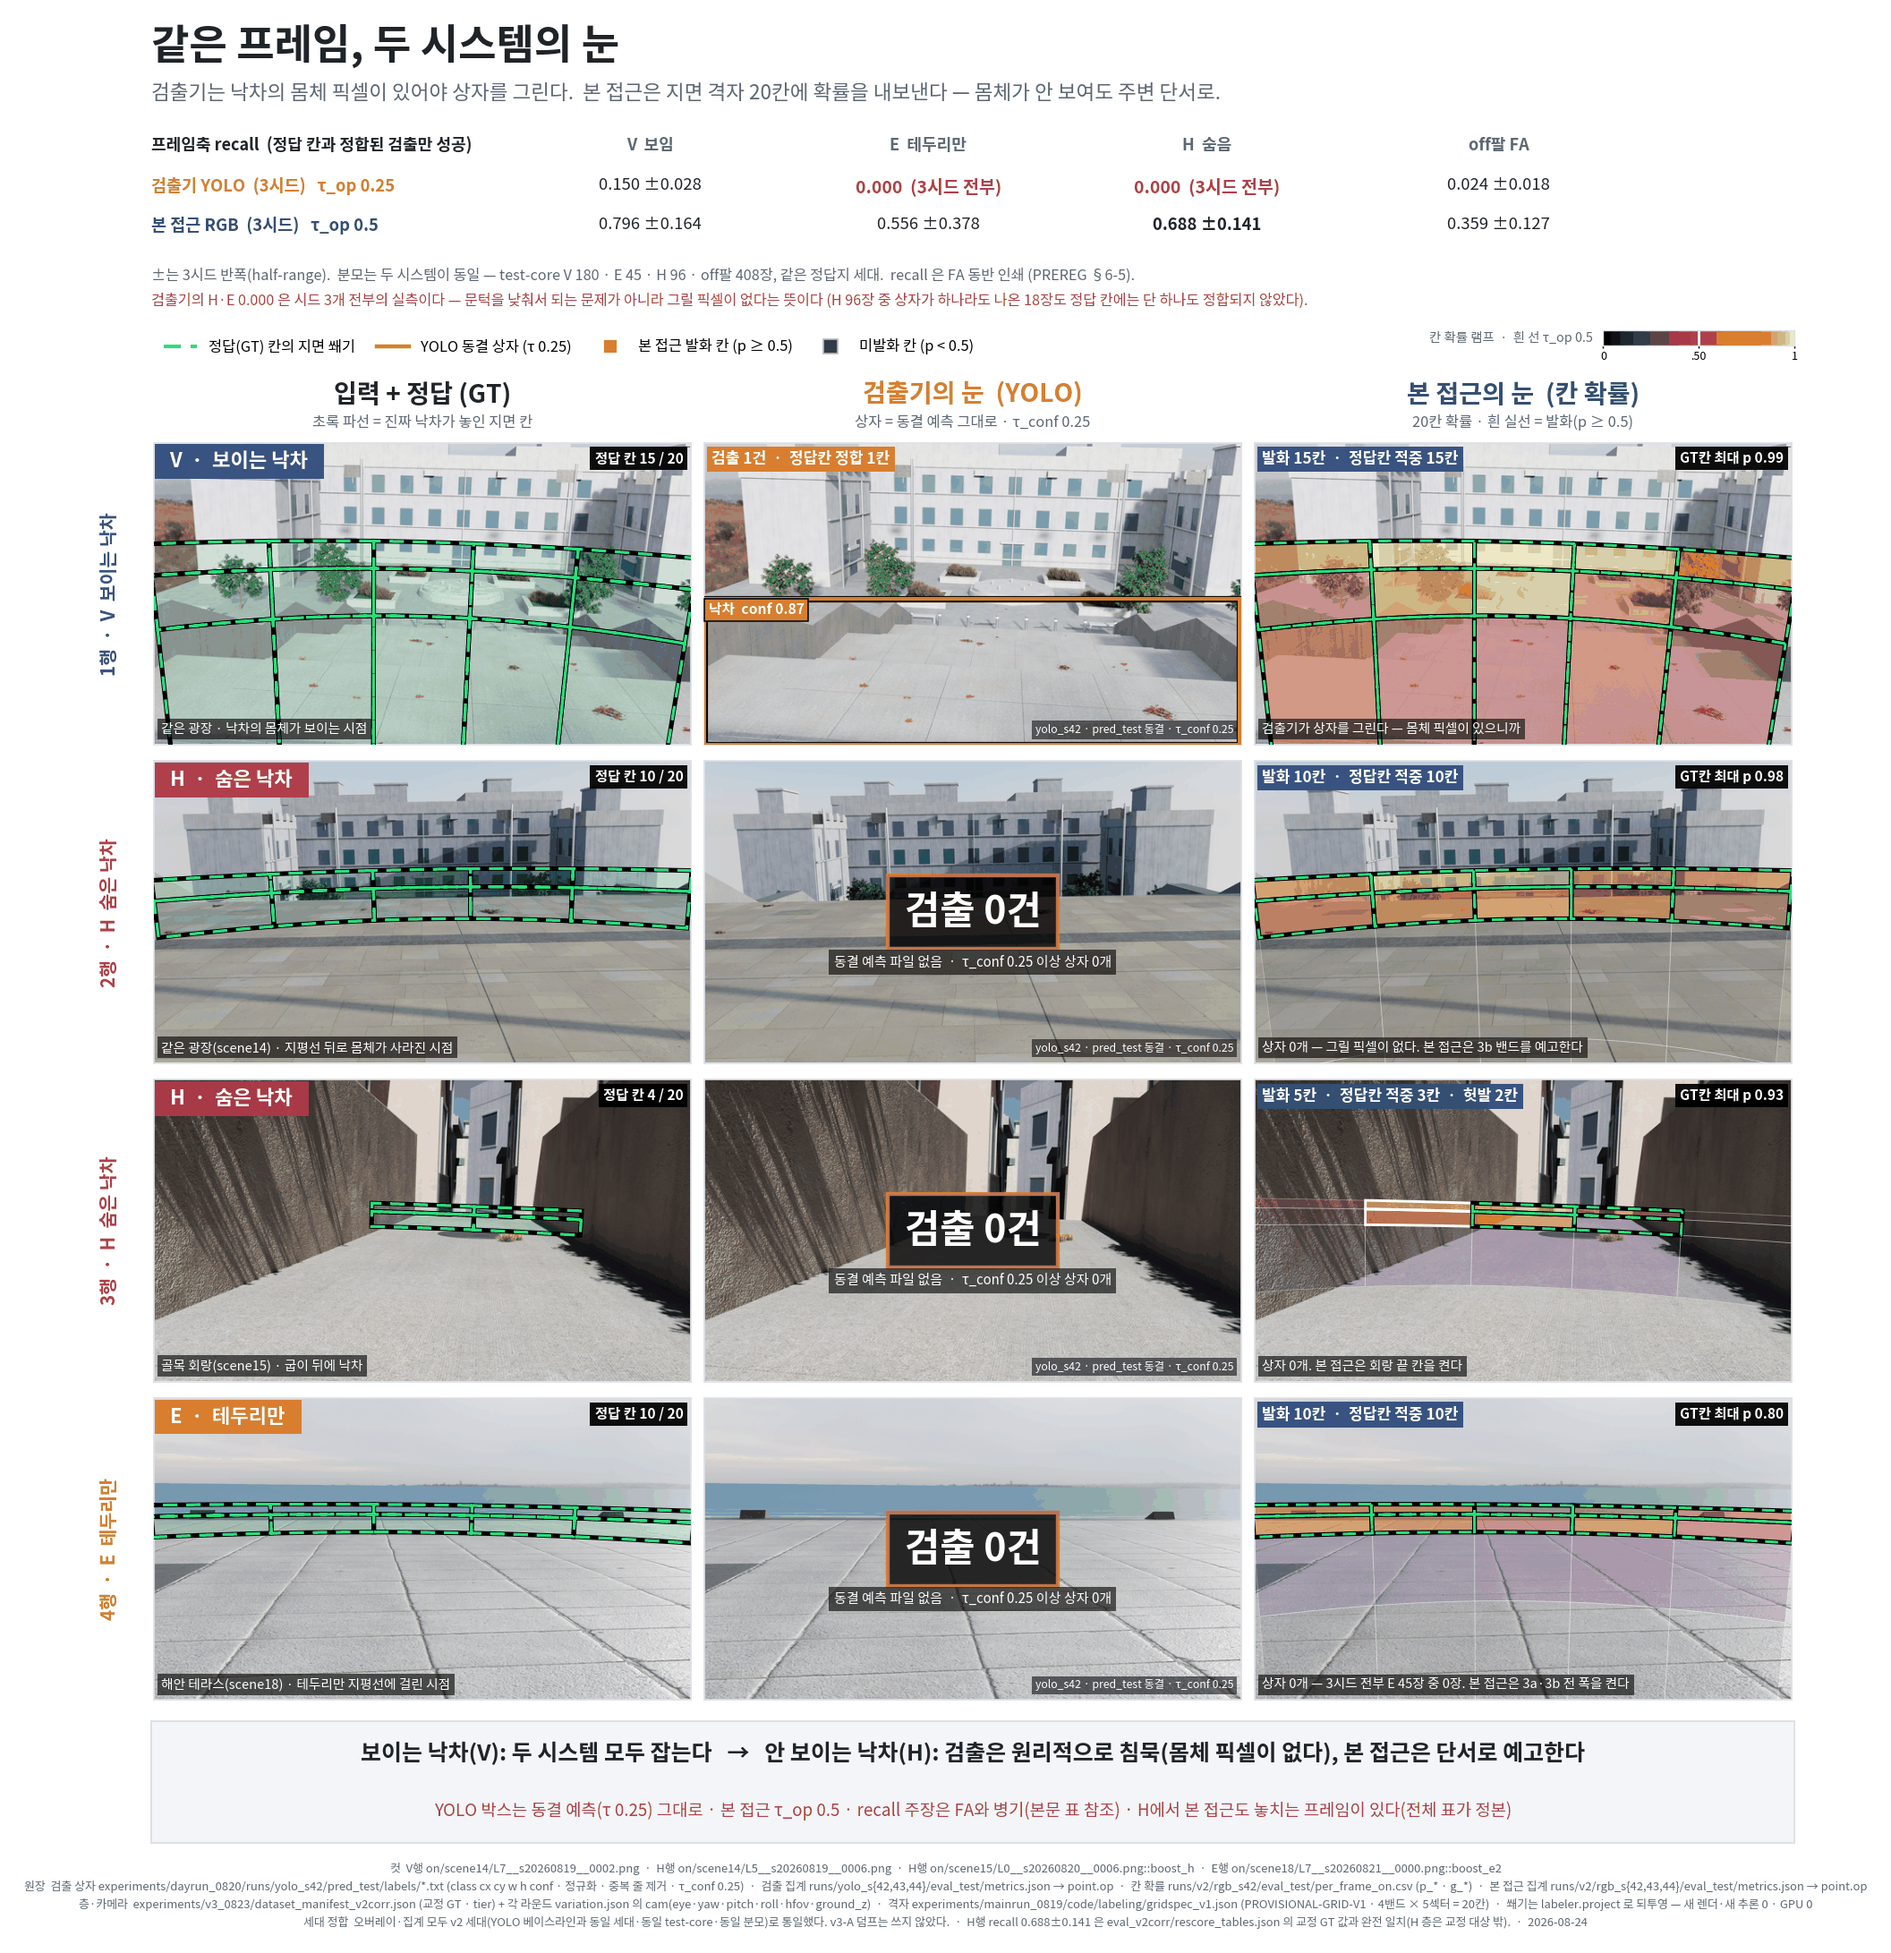
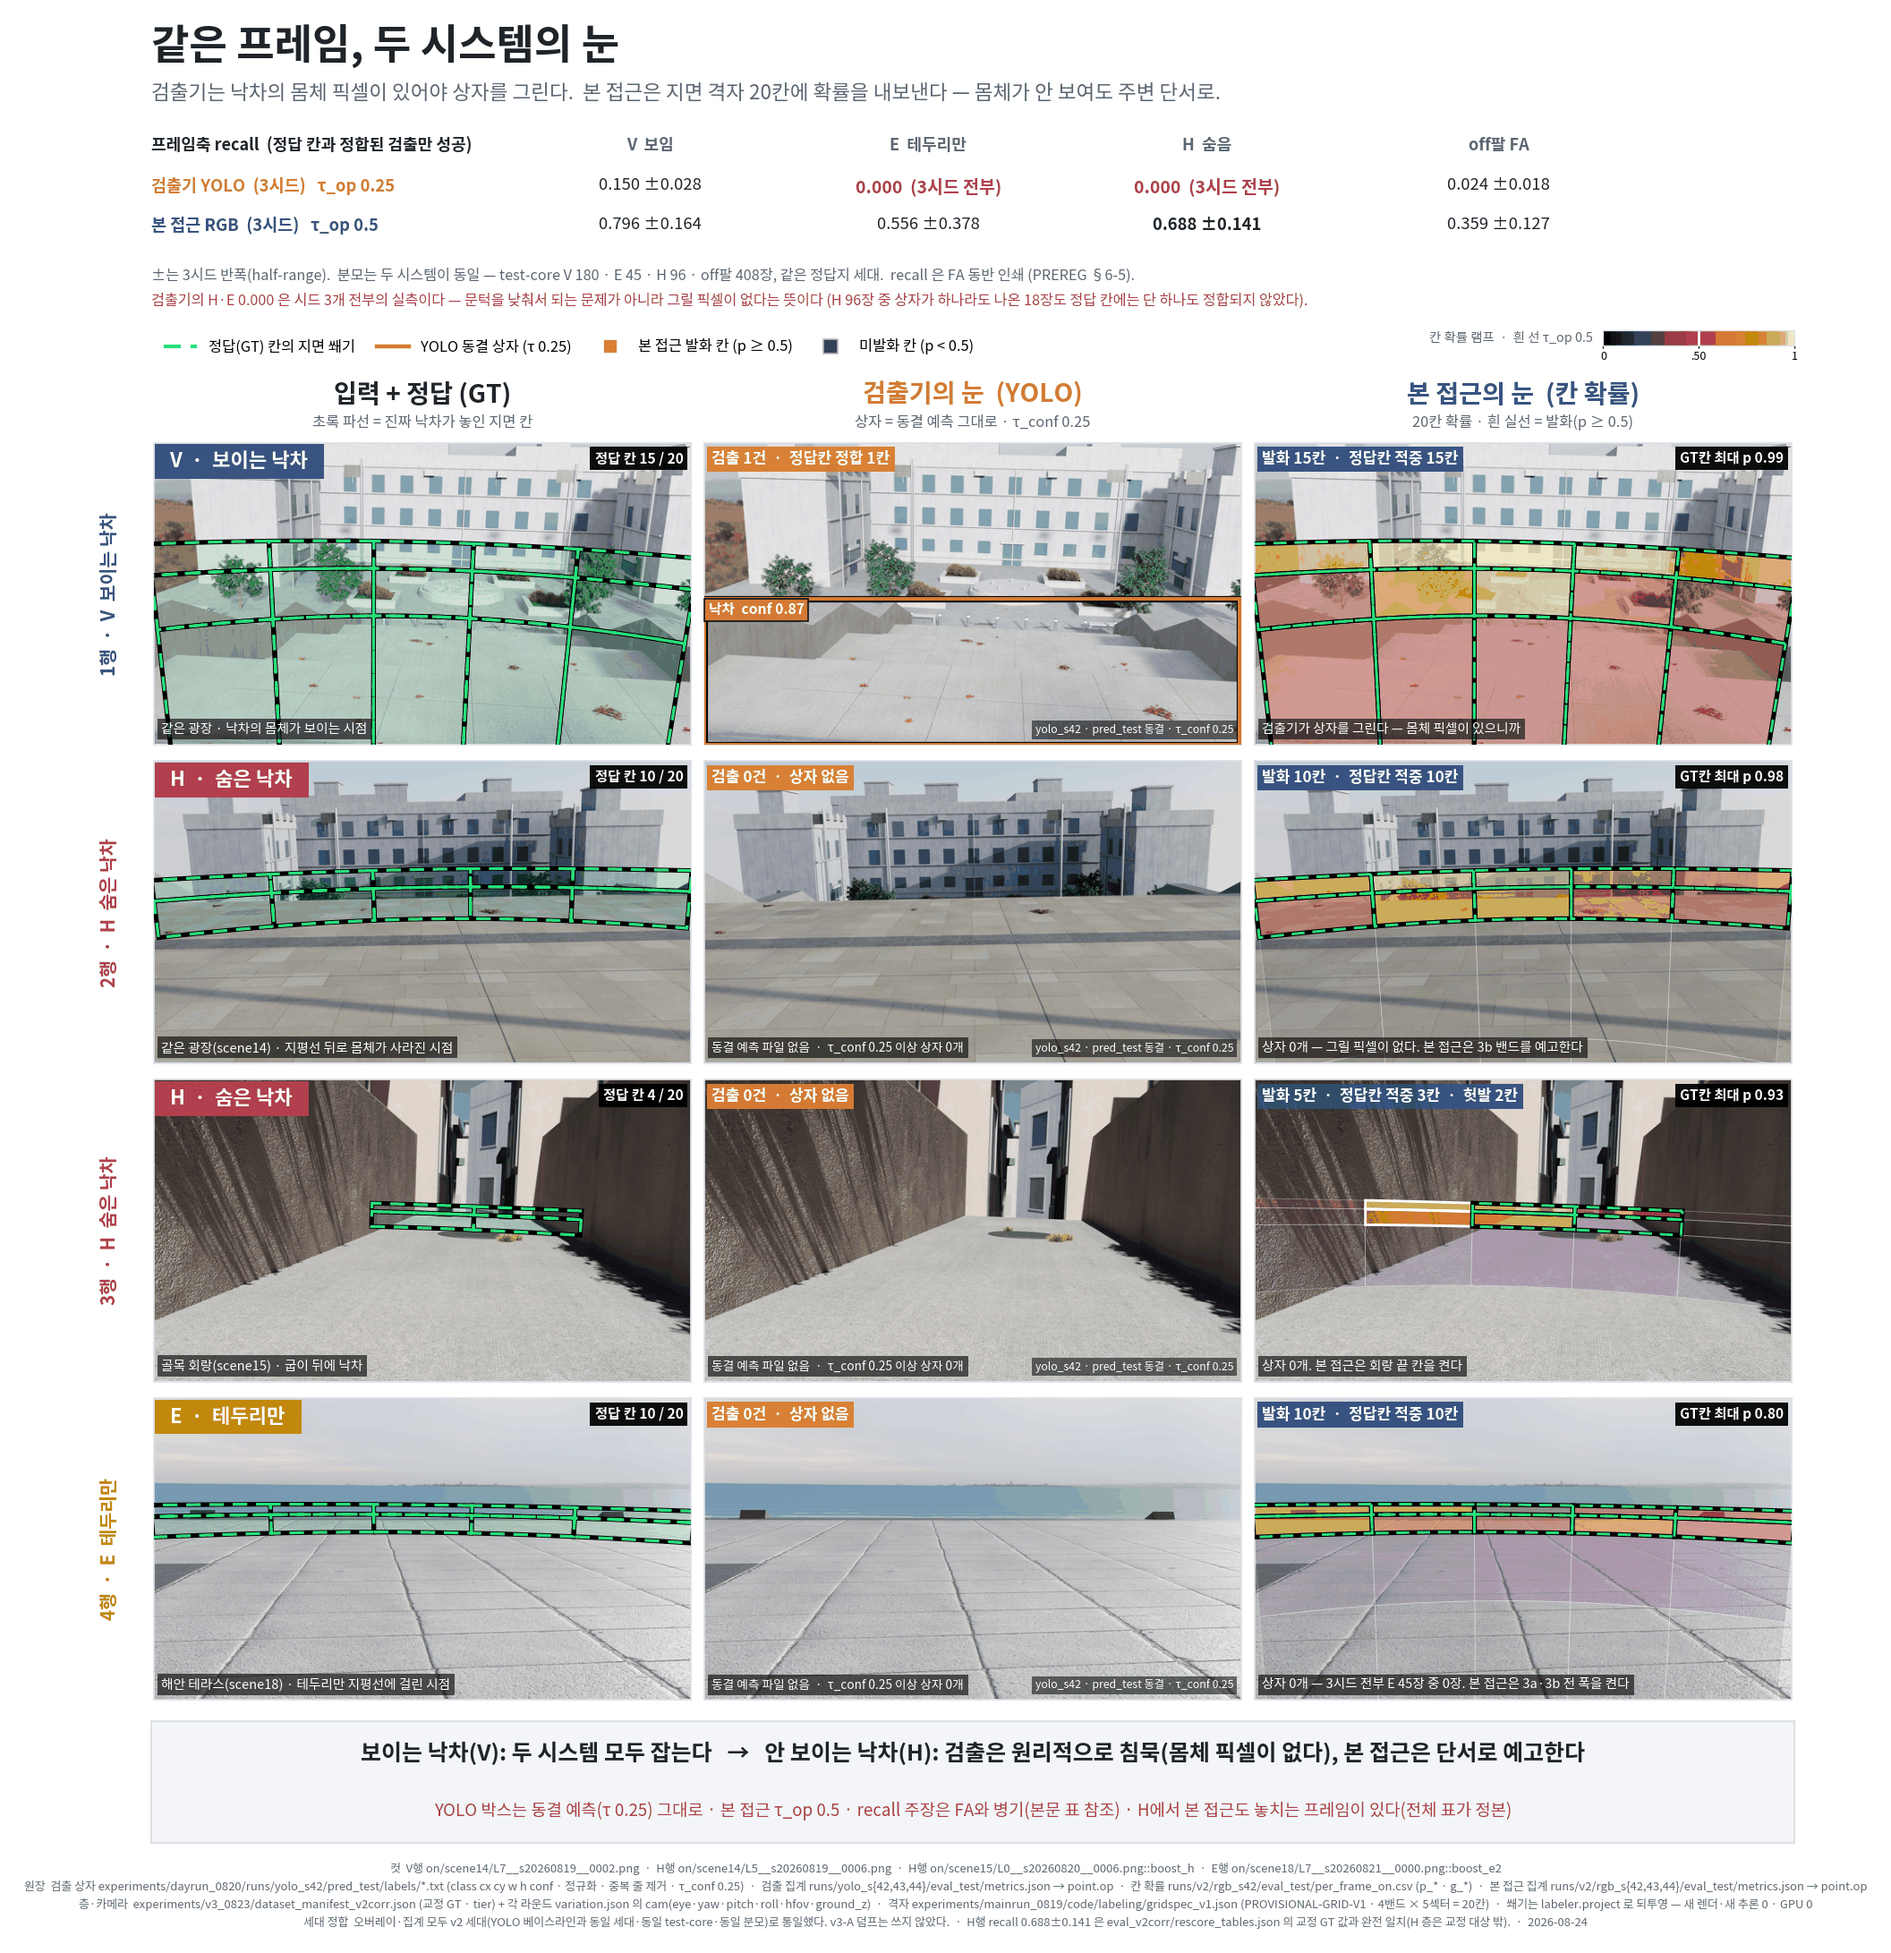
패널 순화+Q5(D99): 중앙 스탬프→상태 칩, V2S 문답 추가, V-7 사유 정정(정면 16.5× 악화) Co-Authored-By: Claude Fable 5 <noreply@anthropic.com> Claude-Session: https://claude.ai/code/session_017KBrLUF9HVpK3kBrpnWY8g

diff --git a/experiments/v3_0823/code/verdict_panel_detvsours.py b/experiments/v3_0823/code/verdict_panel_detvsours.py
@@ -11,7 +11,8 @@
 
   (1) 입력 + 정답(GT)      — 원본 컷 + GT-양성 칸의 지면 쐐기(초록 파선) + 층(V/H/E) 배지
   (2) 검출기의 눈 (YOLO)   — 같은 컷 + **동결 예측 상자** (τ_conf 0.25) 그대로.
-                             상자가 없으면 아무것도 그리지 않고 「검출 0건」 칩만 찍는다.
+                             상자가 없으면 아무것도 그리지 않고, 3열과 같은 문법의
+                             좌상단 「검출 0건 · 상자 없음」 칩 + 좌하단 주석만 남긴다.
   (3) 본 접근의 눈 (칸 확률) — 같은 컷 + 20칸 확률 히트 (inferno 램프),
                              발화 칸(p ≥ 0.5) 흰 실선, GT 칸 초록 파선.
 
@@ -399,13 +400,14 @@ def col_yolo(ax, r, fr, cam, img):
         _chip(ax, .014, .972, f"검출 {len(r['boxes'])}건  ·  정답칸 정합 "
                               f"{len(r['yolo_hit_cells'])}칸", BOXCOL, fs=10.0)
     else:
-        ax.text(.5, .50, "검출 0건", transform=ax.transAxes, ha="center", va="center",
-                fontsize=25, color="white", fontweight="bold", zorder=9,
-                bbox=dict(fc="#000000", ec=BOXCOL, lw=2.6, pad=11, alpha=.80))
-        ax.text(.5, .335, "동결 예측 파일 없음  ·  τ_conf 0.25 이상 상자 0개",
-                transform=ax.transAxes, ha="center", va="center", fontsize=8.8,
+        # 08-24 절제 수정: 화면 한복판의 대형 「검출 0건」 낙관(stamp)을 걷어내고,
+        # 3열이 쓰는 것과 **같은 문법**(좌상단 상태 칩 + 좌하단 작은 주석)으로 바꾼다.
+        # 사실은 하나도 안 줄었다 — 크기만 줄었다.
+        _chip(ax, .014, .972, "검출 0건  ·  상자 없음", BOXCOL, fs=10.0)
+        ax.text(.014, .030, "동결 예측 파일 없음  ·  τ_conf 0.25 이상 상자 0개",
+                transform=ax.transAxes, ha="left", va="bottom", fontsize=8.0,
                 color="white", zorder=9,
-                bbox=dict(fc="#000000", ec="none", pad=3.2, alpha=.62))
+                bbox=dict(fc="#000000", ec="none", pad=2.6, alpha=.62))
     ax.text(.986, .030, "yolo_s42 · pred_test 동결 · τ_conf 0.25",
             transform=ax.transAxes, ha="right", va="bottom", fontsize=7.2,
             color="white", zorder=9,
@@ -600,6 +602,7 @@ def selfcheck(fig, tiles, cax):
     있어야 한다.  하나라도 어기면 저장하지 않고 죽는다.
     """
     from matplotlib.image import AxesImage
+    from matplotlib.text import Text
     if len(tiles) != 12:
         raise SystemExit(f"[fatal] 타일 {len(tiles)}개 != 12")
     if len(fig.axes) != 13:                 # 12 타일 + 램프 1
@@ -626,6 +629,19 @@ def selfcheck(fig, tiles, cax):
             raise SystemExit(f"[fatal] 타일({k},{j}) 오버레이 부족 {got} < {need}")
         if j == 1 and not r["boxes"] and nrect:
             raise SystemExit(f"[fatal] 타일({k},{j}) 상자 0개여야 하는데 {nrect}개 그렸다")
+        # 상자 0건 타일은 **비어 보이면 안 된다** — 좌상단 상태 칩 + 좌하단 주석이
+        # 반드시 있어야 하고(옛 대형 낙관을 대신한다), 대형 낙관은 되살아나면 안 된다.
+        if j == 1 and not r["boxes"]:
+            txts = [a for a in ax.get_children()
+                    if isinstance(a, Text) and a.get_text().strip()]
+            s = [a.get_text() for a in txts]
+            if not any(t.startswith("검출 0건") for t in s):
+                raise SystemExit(f"[fatal] 타일({k},{j}) 「검출 0건」 상태 칩이 없다")
+            if not any(t.startswith("동결 예측 파일 없음") for t in s):
+                raise SystemExit(f"[fatal] 타일({k},{j}) 상자 0건 주석 줄이 없다")
+            big = [(a.get_text(), a.get_fontsize()) for a in txts if a.get_fontsize() > 12]
+            if big:
+                raise SystemExit(f"[fatal] 타일({k},{j}) 대형 낙관이 되살아났다: {big}")
     print(f"[gate] 자기점검 통과 — 12/12 타일에 실사 이미지 + 열별 오버레이 존재 "
           f"(축 {len(fig.axes)}개 = 타일 12 + 램프 1)")
 

diff --git a/experiments/v3_0823/panels/verdict/PANELS_VERDICT.md b/experiments/v3_0823/panels/verdict/PANELS_VERDICT.md
@@ -129,7 +129,8 @@
   PYTHONNOUSERSITE=1 CUDA_VISIBLE_DEVICES= \
     python3 experiments/v3_0823/code/verdict_panel_detvsours.py --force   # 약 5초
   ```
-- **크기** 2113×2182 px · **701 KB** (≤ 2 MB 규율 준수) · md5 `abf0c70538d04974511979b3e6c1b246`
+- **크기** 2113×2182 px · **687 KB** (≤ 2 MB 규율 준수) · md5 `8c44f15f3497d6e1d9b8867c8f87ca0a`
+  (08-24 절제 수정 후 값. 수정 전 = 701 KB · md5 `abf0c70538d04974511979b3e6c1b246` — §7.8 참조)
 - **결정성**: 난수 없음 · 컷은 하드코딩 + 원장 재검산 → 재실행하면 PNG 가 **바이트 동일**(md5 실측 2회 일치). `--force` 없이 실행하면 이어그리기(resume-safe).
 - **무엇을 위한 패널인가**: 「왜 검출기(YOLO)로는 안 되는가」를 **수치가 아니라 그림 한 장**으로 보이기 위한 것. 검출의 어휘(**상자**)와 본 접근의 어휘(**칸 확률**)를 **같은 프레임 위에** 나란히 놓는다.
 
@@ -138,7 +139,7 @@
 | 열 | 라벨 | 무엇을 그리나 |
 |---|---|---|
 | 1 | **입력 + 정답 (GT)** | 원본 컷 + GT-양성 칸의 지면 쐐기(**초록 파선**) + 층 배지(V/H/E) + `정답 칸 n / 20` |
-| 2 | **검출기의 눈 (YOLO)** | 같은 컷 + **동결 예측 상자**(주황) 그대로. 상자가 없으면 아무것도 그리지 않고 **「검출 0건」** 칩만 |
+| 2 | **검출기의 눈 (YOLO)** | 같은 컷 + **동결 예측 상자**(주황) 그대로. 상자가 없으면 아무것도 그리지 않고 3열과 **같은 문법**으로 좌상단 **「검출 0건 · 상자 없음」** 칩(주황) + 좌하단 작은 주석 `동결 예측 파일 없음 · τ_conf 0.25 이상 상자 0개` 만 (**08-24 절제 수정** — §7.8) |
 | 3 | **본 접근의 눈 (칸 확률)** | 같은 컷 + 20칸 `inferno` 확률 히트. 발화 칸(p ≥ 0.5) **흰 실선**, GT 칸 **초록 파선**, `발화 n칸 · 정답칸 적중 m칸 · 헛발 k칸` |
 
 | 행 | 층 | 컷 | GT 칸 | YOLO 상자 (τ_conf 0.25) | rgb_s42 발화 / 적중 | GT칸 최대 p |
@@ -204,5 +205,15 @@
 | 열별 오버레이 | 1열 = GT 칸당 폴리곤 3장, 2열 = 상자당 사각형 2장, 3열 = 폴리곤 ≥ 2장 |
 | 상자 0 대칭 | H·E 행 2열에 사각형이 **하나라도** 있으면 실패 |
 | 컷 로딩 | `imshow` **전에** 이미지 배열 std > 1.0 게이트 |
+| **상자 0 타일의 문안** (08-24 추가) | 상자 0건 타일에 「검출 0건…」 칩 **and** 「동결 예측 파일 없음…」 주석이 둘 다 있어야 하고, **fontsize > 12 인 텍스트가 하나도 없어야** 한다 (걷어낸 대형 낙관이 되살아나면 실패) |
 
 실행 로그에 `[gate] 행 검산 통과` · `[gate] 집계 표 검산 통과` · `[gate] 자기점검 통과 — 12/12 타일` 세 줄이 모두 찍혀야 PNG 가 저장된다.
+
+### 7.8 「검출 0건」 낙관 → 상태 칩 (**08-24 절제 수정 · append-only 기록**)
+
+- **무엇이 있었나**: 상자 0건 타일(2·3·4행 2열) 한복판에 `fontsize 25` 의 대형 **「검출 0건」 낙관(stamp)** 이 찍혀 있었고, 그 아래 `y=.335` 에 작은 주석 한 줄이 따라붙었다.
+- **왜 고쳤나**: 소유자 피드백 — 화면 중앙의 큰 도장이 **짜치고 촌스럽다**. 0건은 이 패널의 **논거**이지 **감탄사**가 아니다. 큰 글씨는 없는 근거를 크게 만들지 않는다.
+- **무엇으로 바꿨나**: **3열이 쓰는 것과 같은 문법** — 좌상단 상태 칩 **「검출 0건 · 상자 없음」**(`_chip(.014, .972, …, BOXCOL, fs=10.0)`, V행의 「검출 1건 · 정답칸 정합 1칸」 칩과 **동일한 스타일·동일한 자리**) + 좌하단 작은 주석 **「동결 예측 파일 없음 · τ_conf 0.25 이상 상자 0개」**(`fs 8.0`, 1열의 `note`·3열의 `read` 와 같은 자리·같은 검정 반투명 배경). 결과적으로 2열도 1·3열과 **똑같은 3점 배치**(좌상단 칩 · 좌하단 주석 · 우하단 출처)를 갖는다.
+- **바뀌지 않은 것**: V행 상자·1열·3열·머리글·집계 표·범례·하단 띠·푸터·컷 선택·원장 — **한 글자도** 손대지 않았다. 인쇄되는 **사실도 그대로**다(파일 없음 · τ_conf 0.25 · 상자 0개). 줄어든 것은 **글자 크기뿐**이다.
+- **자기점검**: 낙관을 없앤 자리가 **빈칸으로 위장하지 않도록** 위 표의 마지막 행(칩 + 주석 존재 · 대형 텍스트 금지)을 `selfcheck()` 에 추가했다. 세 `[gate]` 줄은 그대로 통과한다.
+- **재생성 결과**: `2113×2182 px · 687 KB · md5 8c44f15f3497d6e1d9b8867c8f87ca0a`, 연속 2회 실행 md5 일치(**바이트 동일 · 결정성 유지**). 수정 전은 `701 KB · md5 abf0c70538d04974511979b3e6c1b246`.

diff --git a/experiments/mainrun_0819/DECISIONS.md b/experiments/mainrun_0819/DECISIONS.md
@@ -1107,3 +1107,14 @@
   1.99MB) 아티팩트 게시 — 구조: 30초 요약/검출과 무엇이 다른가(신호 기하+두 경계 표+
   폴라 그리드 3이유+CSS 부채꼴 도식)/계기판 3종/판정표 밖 4/코퍼스/Gazebo/문답 4/결정
   5/원장 지도. 전 수치 원장 대조("웨이브 6" 검증 불가 → 8웨이브·5,061컷 실측으로 교체).
+
+- **D99 (월 저녁) 패널 순화 + 리포트 Q5(V2S) 반영·재게시**: ① panel_f 중앙 대형 스탬프
+  제거 → 3열 동일 문법의 좌상단 칩("검출 0건·상자 없음"), 자가검증에 양성 단언 추가
+  (칩+주석 존재 필수·fontsize>12 텍스트 금지 — 스탬프 회귀 차단). ② 리포트 문답 Q5
+  신설(10섹터 V2S: 9런 재학습·ROLLBACK 6/3·국소화 이득 동전 던지기 4/9·2/9·공허 통과
+  인용 금지·원인=측방 과제 부재·L1로 재론 기반 개시) + V-7 독립 행 승격(총계 재정합).
+  ③ **정정(에이전트 검증 노트 수용)**: V-7 사유로 내가 채팅에 병기한 "0.722→0.090
+  개선"만으로는 역방향 오독 — 원장의 실제 사유는 **정면 과발화가 11.4×→16.5×로 악화**
+  ("적게 울리되 여전히 정면을 본다")이며 리포트는 두 수치를 원장 프레임으로 병기.
+  "측방 씬 1개라 검정력 부족"은 원장 추론임을 표기. 재게시 동일 URL(label
+  v2s-q5-panel-chip).
